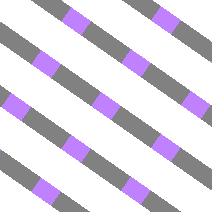
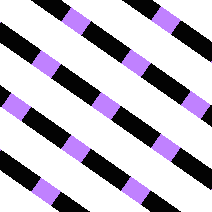
greater salience for stripes on stripes

diff --git a/dive/tileoverlays/make_higher_gradients.py b/dive/tileoverlays/make_higher_gradients.py
@@ -40,7 +40,13 @@ def wavy(colour, direction, frequency, attenuation, has_sevens, supercolour, sup
           colour_data.append((colour[0]*blackening, colour[1]*blackening, colour[2]*blackening))
       band_position = (rix * frequency) % 1
       if band_position < 1/6.0 or band_position > 5/6.0:
-        alpha_data.append(attenuation * 256)
+        if (supercolour != None):
+          if superband_position < 1/6.0 or superband_position > 5/6.0:
+            alpha_data.append(attenuation * 256)
+          else:
+            alpha_data.append(2 * attenuation * 256)
+        else:
+          alpha_data.append(attenuation * 256)
       else:
         alpha_data.append(0)
 
